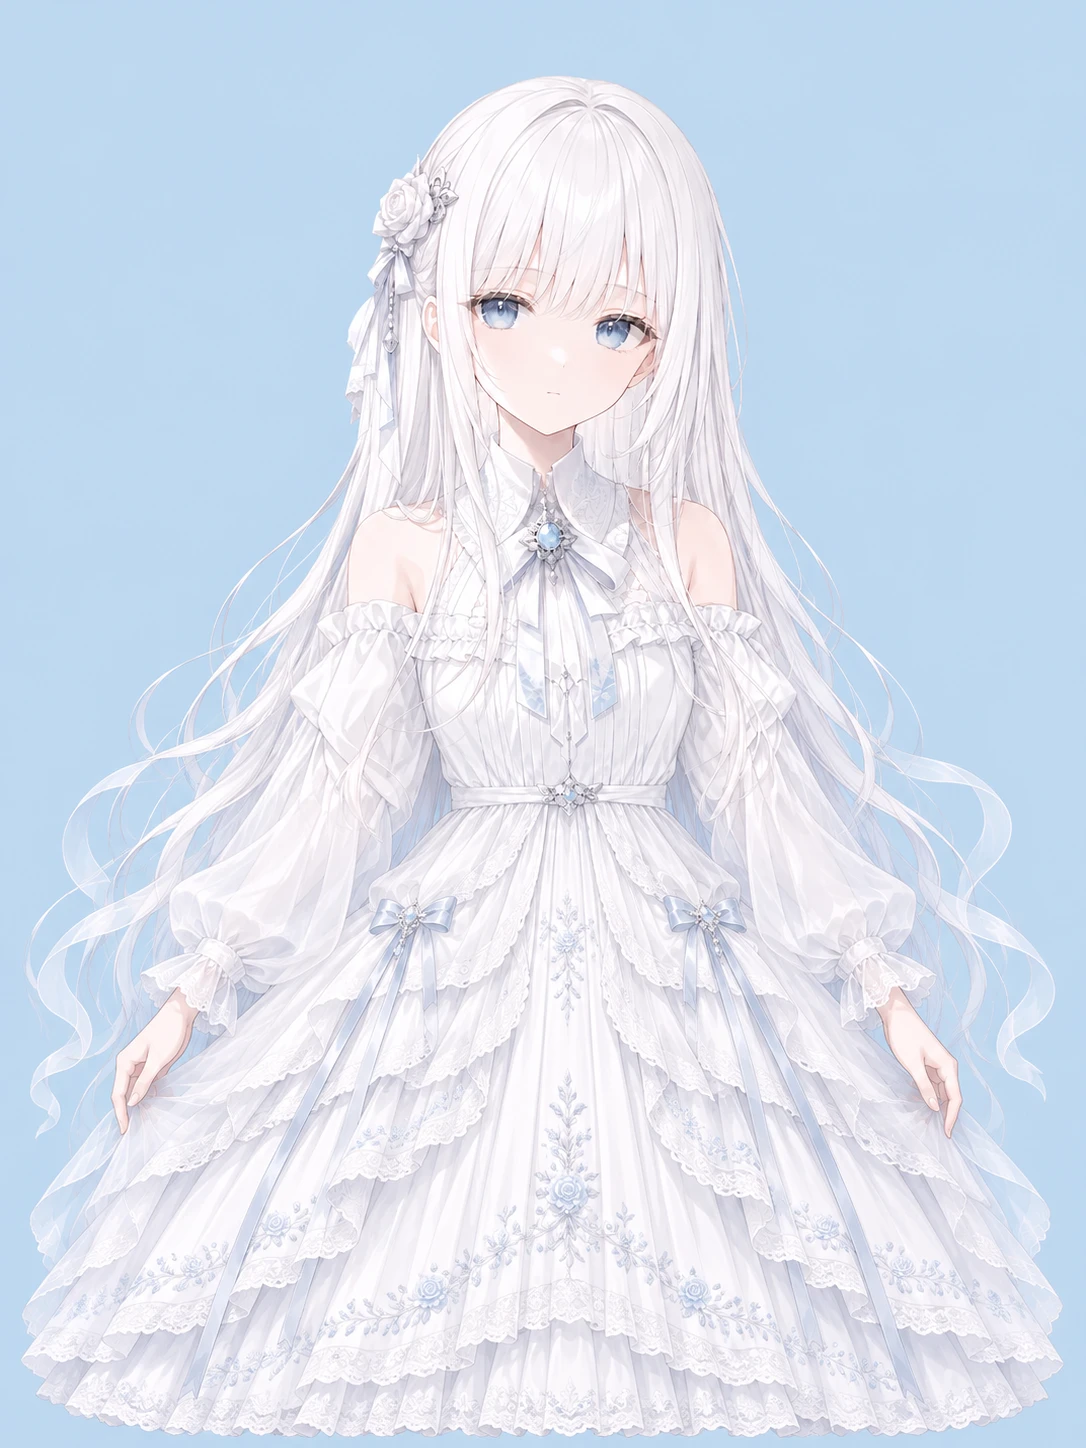
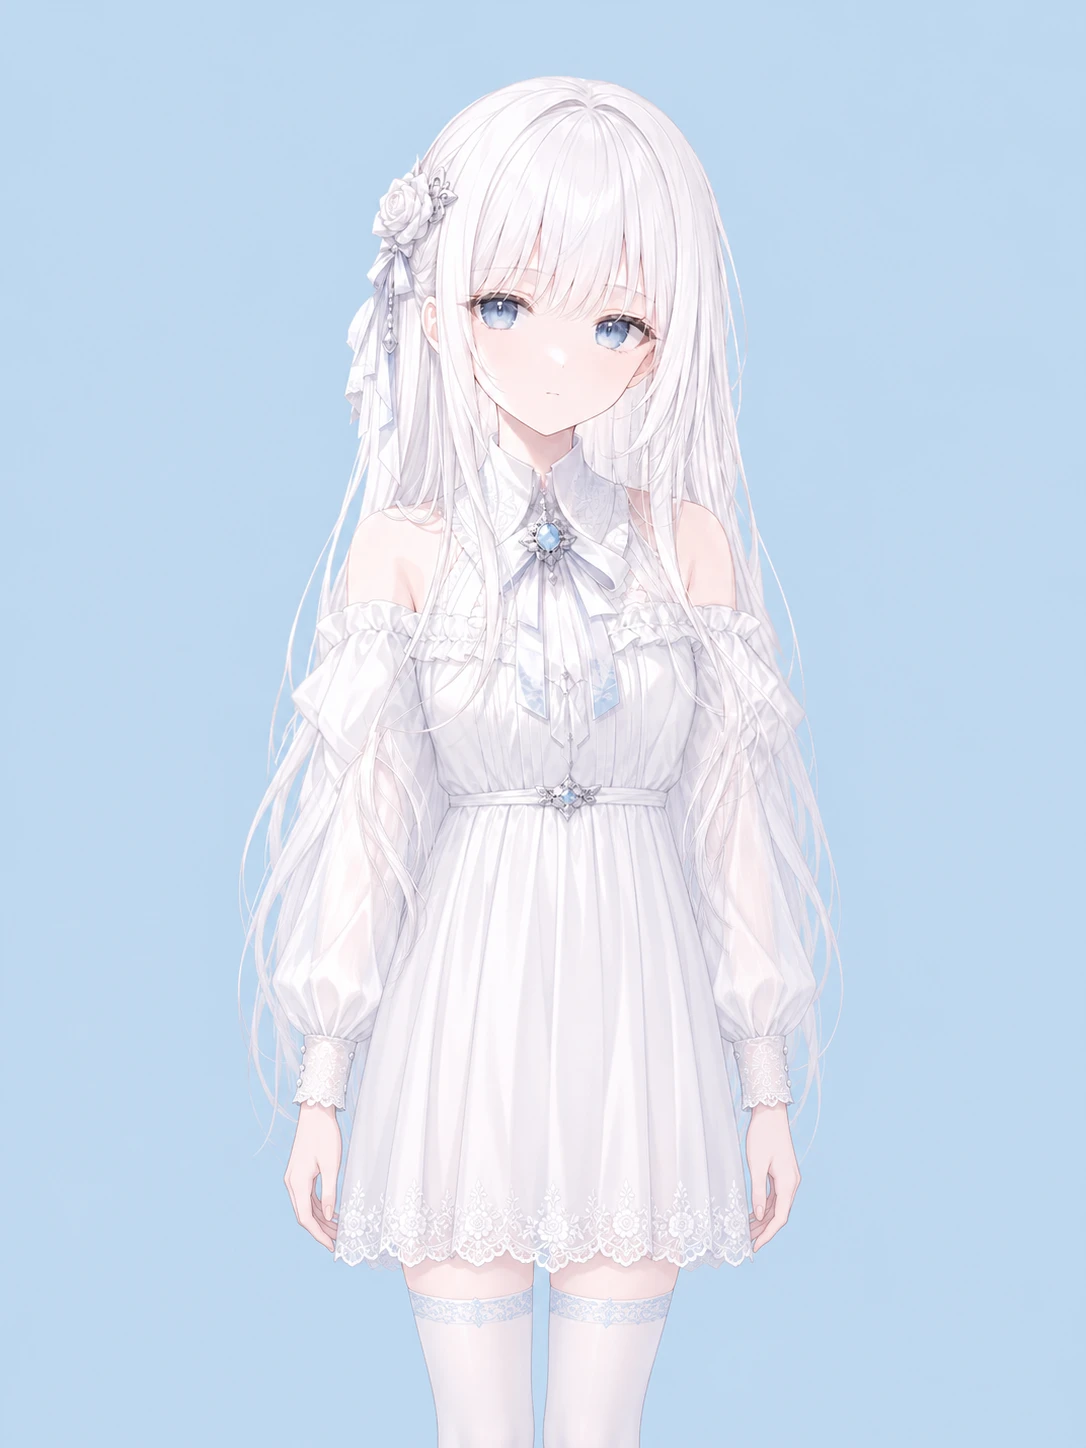
chore(preview): publish Batch 1A v3 portrait picker (5 distinct outfits per sister, zero side clipping)

diff --git a/portrait-picker/index.html b/portrait-picker/index.html
@@ -3,7 +3,7 @@
 <head>
 <meta charset="UTF-8">
 <meta name="viewport" content="width=device-width, initial-scale=1.0">
-<title>Batch 1A v2 · 三姐妹少女期（原图结构锁定补画 · 放宽体型）</title>
+<title>Batch 1A v3 · 三姐妹少女期（每角 5 款迥异下装设计 · 原图结构锁定）</title>
 <style>
 /* ==========================================================================
    《转生千金》立绘 5 选 1 交互审图工坊 · 棱镜冰晶雪瓷视觉体系
@@ -2030,7 +2030,7 @@ body.view-large .btn-zoom .zoom-txt {
 
 <div class="toast" id="toast" role="status" aria-live="polite"></div>
 
-<script id="showcase-data" type="application/json">{"batch_id":"batch_1a_v2","batch_label":"Batch 1A v2","title":"Batch 1A v2 · 三姐妹少女期（原图结构锁定补画 · 放宽体型）","subtitle":"原立绘上半身与双臂走势 100% 锁定自然外扩 · 严禁腹前搭手与捏细身形 · 放宽左右边距保华丽贵族蓬裙","characters":[{"id":"sylvia_teenage_normal","name":"希尔维亚 · 少女期","role_tag":"核心女主 · 4 阶段之一","sample_line":"既然重活一世，这一生总该按自己的步调，悠闲地过日子才对。","original":{"src":"img/sylvia_teenage_normal/original.webp","defect":"原图仅到束腰上半截，且左右披发与白袖均被硬裁（左65px/右42px）","metrics":{"width":1086,"height":1448,"aspect":"3:4","margin_l":0.0,"margin_r":0.0,"margin_t":2.3,"margin_b":0.0,"bg_std":0.0,"bg_hex":"transparent","is_transparent":true}},"candidates":[{"index":1,"label":"#01","src":"img/sylvia_teenage_normal/cand_01.webp","tag":"自然垂手·金绣长裙","note":"","metrics":{"width":1086,"height":1448,"aspect":"3:4","margin_l":4.1,"margin_r":4.2,"margin_t":5.2,"margin_b":0.3,"bg_std":0.6,"bg_hex":"#C0D8EF","is_transparent":false}},{"index":2,"label":"#02","src":"img/sylvia_teenage_normal/cand_02.webp","tag":"轻提裙侧·蓝白层褶","note":"","metrics":{"width":1086,"height":1448,"aspect":"3:4","margin_l":0.0,"margin_r":0.0,"margin_t":5.1,"margin_b":0.0,"bg_std":0.6,"bg_hex":"#BCD7F0","is_transparent":false}},{"index":3,"label":"#03","src":"img/sylvia_teenage_normal/cand_03.webp","tag":"指尖轻拂·典雅长摆","note":"","metrics":{"width":1086,"height":1448,"aspect":"3:4","margin_l":0.0,"margin_r":0.0,"margin_t":5.2,"margin_b":0.0,"bg_std":0.6,"bg_hex":"#BDD6EE","is_transparent":false}},{"index":4,"label":"#04","src":"img/sylvia_teenage_normal/cand_04.webp","tag":"轻抚裙胯·饱满蓬裙","note":"","metrics":{"width":1086,"height":1448,"aspect":"3:4","margin_l":1.2,"margin_r":1.5,"margin_t":5.2,"margin_b":0.1,"bg_std":0.6,"bg_hex":"#BDD6EE","is_transparent":false}},{"index":5,"label":"#05","src":"img/sylvia_teenage_normal/cand_05.webp","tag":"微风垂袖·银发轻扬","note":"","metrics":{"width":1086,"height":1448,"aspect":"3:4","margin_l":0.6,"margin_r":0.6,"margin_t":5.2,"margin_b":0.0,"bg_std":0.6,"bg_hex":"#BFD7EE","is_transparent":false}}]},{"id":"alice_teenage_normal","name":"爱丽丝 · 少女期","role_tag":"公爵次女 · 3 阶段之一","sample_line":"姐姐，今天的风有些凉，披肩记得系紧些再出门。","original":{"src":"img/alice_teenage_normal/original.webp","defect":"原图仅胸上/高腰裁切，白纱蓬袖与披发紧逼左右边界","metrics":{"width":1086,"height":1448,"aspect":"3:4","margin_l":1.5,"margin_r":2.4,"margin_t":4.3,"margin_b":0.0,"bg_std":0.0,"bg_hex":"transparent","is_transparent":true}},"candidates":[{"index":1,"label":"#01","src":"img/alice_teenage_normal/cand_01.webp","tag":"双袖自然垂落·纯白蕾丝","note":"","metrics":{"width":1086,"height":1448,"aspect":"3:4","margin_l":0.0,"margin_r":0.0,"margin_t":5.2,"margin_b":0.0,"bg_std":0.6,"bg_hex":"#C0D8F0","is_transparent":false}},{"index":2,"label":"#02","src":"img/alice_teenage_normal/cand_02.webp","tag":"指尖轻拢裙侧·冰蓝丝带","note":"","metrics":{"width":1086,"height":1448,"aspect":"3:4","margin_l":1.1,"margin_r":1.1,"margin_t":5.2,"margin_b":0.0,"bg_std":0.6,"bg_hex":"#C1D8F0","is_transparent":false}},{"index":3,"label":"#03","src":"img/alice_teenage_normal/cand_03.webp","tag":"舒展垂手·多层雪纱裙","note":"","metrics":{"width":1086,"height":1448,"aspect":"3:4","margin_l":0.8,"margin_r":0.8,"margin_t":5.2,"margin_b":0.1,"bg_std":0.6,"bg_hex":"#C0D8EF","is_transparent":false}},{"index":4,"label":"#04","src":"img/alice_teenage_normal/cand_04.webp","tag":"轻提外纱·清冷典雅","note":"","metrics":{"width":1086,"height":1448,"aspect":"3:4","margin_l":0.1,"margin_r":0.2,"margin_t":5.2,"margin_b":0.0,"bg_std":0.6,"bg_hex":"#BED8F0","is_transparent":false}},{"index":5,"label":"#05","src":"img/alice_teenage_normal/cand_05.webp","tag":"雪发轻扬·冰晶蕾丝摆","note":"","metrics":{"width":1086,"height":1448,"aspect":"3:4","margin_l":2.0,"margin_r":2.1,"margin_t":5.2,"margin_b":0.7,"bg_std":0.6,"bg_hex":"#BED8F0","is_transparent":false}}]},{"id":"beatrice_teenage_normal","name":"贝阿特丽丝 · 少女期","role_tag":"公爵长女 · 3 阶段之一","sample_line":"哈哈，既然是学院比试，可不许对我手下留情哦！","original":{"src":"img/beatrice_teenage_normal/original.webp","defect":"原图为 1:1 方画幅，顶边仅 4px 险切高马尾，腰下与双袖斜切","metrics":{"width":1254,"height":1254,"aspect":"1:1","margin_l":12.4,"margin_r":5.7,"margin_t":0.4,"margin_b":0.0,"bg_std":0.0,"bg_hex":"transparent","is_transparent":true}},"candidates":[{"index":1,"label":"#01","src":"img/beatrice_teenage_normal/cand_01.webp","tag":"自然外展·红金蓬裙","note":"","metrics":{"width":1086,"height":1448,"aspect":"3:4","margin_l":0.0,"margin_r":0.7,"margin_t":5.1,"margin_b":0.0,"bg_std":0.6,"bg_hex":"#DFD1BD","is_transparent":false}},{"index":2,"label":"#02","src":"img/beatrice_teenage_normal/cand_02.webp","tag":"轻提裙侧·明朗大小姐","note":"","metrics":{"width":1086,"height":1448,"aspect":"3:4","margin_l":0.5,"margin_r":0.0,"margin_t":5.1,"margin_b":0.0,"bg_std":0.6,"bg_hex":"#E2D4C0","is_transparent":false}},{"index":3,"label":"#03","src":"img/beatrice_teenage_normal/cand_03.webp","tag":"轻扶裙胯·华丽红裙","note":"","metrics":{"width":1086,"height":1448,"aspect":"3:4","margin_l":1.0,"margin_r":0.1,"margin_t":5.1,"margin_b":0.0,"bg_std":0.6,"bg_hex":"#E0D3BE","is_transparent":false}},{"index":4,"label":"#04","src":"img/beatrice_teenage_normal/cand_04.webp","tag":"舒展袖摆·白蕾丝层裙","note":"","metrics":{"width":1086,"height":1448,"aspect":"3:4","margin_l":1.1,"margin_r":1.2,"margin_t":5.2,"margin_b":0.2,"bg_std":0.6,"bg_hex":"#DFD2BE","is_transparent":false}},{"index":5,"label":"#05","src":"img/beatrice_teenage_normal/cand_05.webp","tag":"爽朗姿态·跃动金马尾","note":"","metrics":{"width":1086,"height":1448,"aspect":"3:4","margin_l":1.3,"margin_r":1.7,"margin_t":5.1,"margin_b":0.9,"bg_std":0.6,"bg_hex":"#E2D4C0","is_transparent":false}}]}]}</script>
+<script id="showcase-data" type="application/json">{"batch_id":"batch_1a_v3","batch_label":"Batch 1A v3","title":"Batch 1A v3 · 三姐妹少女期（每角 5 款迥异下装设计 · 原图结构锁定）","subtitle":"原立绘上半身与双臂走势 100% 锁定 · 每角 5 种截然不同下装与气质（直筒/百褶长袜/燕尾/斜裁轻纱/修身裤装）· 严控左右纯底留白零切边","characters":[{"id":"sylvia_teenage_normal","name":"希尔维亚 · 少女期","role_tag":"核心女主 · 4 阶段之一","sample_line":"既然重活一世，这一生总该按自己的步调，悠闲地过日子才对。","original":{"src":"img/sylvia_teenage_normal/original.webp","defect":"原图仅到束腰上半截，且左右披发与白袖均被硬裁（左65px/右42px）","metrics":{"width":1086,"height":1448,"aspect":"3:4","margin_l":0.0,"margin_r":0.0,"margin_t":2.3,"margin_b":0.0,"bg_std":0.0,"bg_hex":"transparent","is_transparent":true}},"candidates":[{"index":1,"label":"#01","src":"img/sylvia_teenage_normal/cand_01.webp","tag":"垂坠直筒长裙","note":"深皇家蓝丝绒直筒细褶垂坠长裙，淡金竖纹滚边，修长高挑清冷","metrics":{"width":1086,"height":1448,"aspect":"3:4","margin_l":17.7,"margin_r":20.1,"margin_t":5.1,"margin_b":0.0,"bg_std":0.6,"bg_hex":"#C1D8EF","is_transparent":false}},{"index":2,"label":"#02","src":"img/sylvia_teenage_normal/cand_02.webp","tag":"学院百褶+长袜","note":"阿斯拉魔法学院风深蓝金边齐膝百褶裙 + 深藏蓝过膝长袜，干练轻便","metrics":{"width":1086,"height":1448,"aspect":"3:4","margin_l":19.2,"margin_r":19.6,"margin_t":5.2,"margin_b":0.0,"bg_std":0.6,"bg_hex":"#BED7EF","is_transparent":false}},{"index":3,"label":"#03","src":"img/sylvia_teenage_normal/cand_03.webp","tag":"贵族燕尾+白褶裙","note":"深蓝金藤前短后长分叉燕尾下摆 + 贴身纯白细百褶内衬长裙，飒爽贵气","metrics":{"width":1086,"height":1448,"aspect":"3:4","margin_l":13.5,"margin_r":16.7,"margin_t":5.2,"margin_b":0.0,"bg_std":0.6,"bg_hex":"#C1D9EF","is_transparent":false}},{"index":4,"label":"#04","src":"img/sylvia_teenage_normal/cand_04.webp","tag":"不对称飘带轻纱","note":"斜裁不对称深蓝丝绸+柔垂雪纺双层长裙 + 腰链侧双缕金边飘带，灵动轻盈","metrics":{"width":1086,"height":1448,"aspect":"3:4","margin_l":15.5,"margin_r":18.5,"margin_t":5.2,"margin_b":0.0,"bg_std":0.6,"bg_hex":"#C1D8EF","is_transparent":false}},{"index":5,"label":"#05","src":"img/sylvia_teenage_normal/cand_05.webp","tag":"剑士修身长裤","note":"收腰开衩修长衣摆 + 深藏蓝贵族修身骑装/法袍长裤，清冷英气魔剑实战便装","metrics":{"width":1086,"height":1448,"aspect":"3:4","margin_l":19.4,"margin_r":20.2,"margin_t":5.1,"margin_b":0.0,"bg_std":0.6,"bg_hex":"#BFD8EF","is_transparent":false}}]},{"id":"alice_teenage_normal","name":"爱丽丝 · 少女期","role_tag":"公爵次女 · 3 阶段之一","sample_line":"姐姐，今天的风有些凉，披肩记得系紧些再出门。","original":{"src":"img/alice_teenage_normal/original.webp","defect":"原图仅胸上/高腰裁切，白纱蓬袖与披发紧逼左右边界","metrics":{"width":1086,"height":1448,"aspect":"3:4","margin_l":1.5,"margin_r":2.4,"margin_t":4.3,"margin_b":0.0,"bg_std":0.0,"bg_hex":"transparent","is_transparent":true}},"candidates":[{"index":1,"label":"#01","src":"img/alice_teenage_normal/cand_01.webp","tag":"直垂雪纺仙女裙","note":"纯白丝滑直身垂坠雪纺长裙，如流水贴身顺直垂落，空灵仙气","metrics":{"width":1086,"height":1448,"aspect":"3:4","margin_l":23.0,"margin_r":22.8,"margin_t":5.2,"margin_b":0.0,"bg_std":0.6,"bg_hex":"#BFD8F0","is_transparent":false}},{"index":2,"label":"#02","src":"img/alice_teenage_normal/cand_02.webp","tag":"日常微A白布裙","note":"无撑架自然柔和微A字日常纯白长裙 + 淡冰蓝蕾丝花边，温婉舒展不臃肿","metrics":{"width":1086,"height":1448,"aspect":"3:4","margin_l":17.7,"margin_r":17.8,"margin_t":5.2,"margin_b":0.0,"bg_std":0.6,"bg_hex":"#BFD7EF","is_transparent":false}},{"index":3,"label":"#03","src":"img/alice_teenage_normal/cand_03.webp","tag":"高腰百褶+冰蓝飘带","note":"纯白竖向细密百褶直裙 + 银扣正中双条冰蓝雪花暗纹长丝带，清雅利落","metrics":{"width":1086,"height":1448,"aspect":"3:4","margin_l":21.7,"margin_r":21.3,"margin_t":5.2,"margin_b":0.0,"bg_std":0.6,"bg_hex":"#C0D8F0","is_transparent":false}},{"index":4,"label":"#04","src":"img/alice_teenage_normal/cand_04.webp","tag":"斜裁轻纱荷叶裙","note":"斜裁不对称双层雪纺裙（外层柔白轻纱荷叶边 + 内层淡冰蓝暗纹垂衬裙），纤巧多层次","metrics":{"width":1086,"height":1448,"aspect":"3:4","margin_l":21.2,"margin_r":21.2,"margin_t":5.2,"margin_b":0.0,"bg_std":0.6,"bg_hex":"#C0D7EF","is_transparent":false}},{"index":5,"label":"#05","src":"img/alice_teenage_normal/cand_05.webp","tag":"齐膝白裙+白丝袜","note":"轻盈日常齐膝纯白蕾丝连衣裙 + 纯白/淡冰蓝细纹过膝长袜，清纯温婉","metrics":{"width":1086,"height":1448,"aspect":"3:4","margin_l":21.9,"margin_r":22.4,"margin_t":5.2,"margin_b":0.0,"bg_std":0.6,"bg_hex":"#BFD8F0","is_transparent":false}}]},{"id":"beatrice_teenage_normal","name":"贝阿特丽丝 · 少女期","role_tag":"公爵长女 · 3 阶段之一","sample_line":"哈哈，既然是学院比试，可不许对我手下留情哦！","original":{"src":"img/beatrice_teenage_normal/original.webp","defect":"原图为 1:1 方画幅，顶边仅 4px 险切高马尾，腰下与双袖斜切","metrics":{"width":1254,"height":1254,"aspect":"1:1","margin_l":12.4,"margin_r":5.7,"margin_t":0.4,"margin_b":0.0,"bg_std":0.0,"bg_hex":"transparent","is_transparent":true}},"candidates":[{"index":1,"label":"#01","src":"img/beatrice_teenage_normal/cand_01.webp","tag":"骑士燕尾+修身裤","note":"绯红金绣骑士分叉长燕尾下摆 + 利落纯白/深酒红剑士修身长裤，飒爽大姐剑士风","metrics":{"width":1086,"height":1448,"aspect":"3:4","margin_l":15.5,"margin_r":8.4,"margin_t":5.2,"margin_b":0.0,"bg_std":0.6,"bg_hex":"#E2D3BF","is_transparent":false}},{"index":2,"label":"#02","src":"img/beatrice_teenage_normal/cand_02.webp","tag":"学院绯红百褶+黑袜","note":"充满活力的绯红金边学院风百褶中短裙 + 深色过膝长袜，明朗朝气方便挥剑","metrics":{"width":1086,"height":1448,"aspect":"3:4","margin_l":14.3,"margin_r":14.2,"margin_t":5.1,"margin_b":0.0,"bg_std":0.6,"bg_hex":"#E0D4C0","is_transparent":false}},{"index":3,"label":"#03","src":"img/beatrice_teenage_normal/cand_03.webp","tag":"红丝绒直摆礼裙","note":"修长垂坠绯红丝绒直身长裙 + 正中纯白蕾丝竖条内衬与纵向金绣，高挑华贵绝不臃肿","metrics":{"width":1086,"height":1448,"aspect":"3:4","margin_l":20.4,"margin_r":15.0,"margin_t":5.2,"margin_b":0.0,"bg_std":0.6,"bg_hex":"#E0D3BF","is_transparent":false}},{"index":4,"label":"#04","src":"img/beatrice_teenage_normal/cand_04.webp","tag":"前短后长轻战裙","note":"侧开叉前短后长绯红金边轻战裙（外层红色燕尾披摆 + 内层白蕾丝短褶裙），动感层次十足","metrics":{"width":1086,"height":1448,"aspect":"3:4","margin_l":15.6,"margin_r":13.4,"margin_t":5.0,"margin_b":0.0,"bg_std":0.6,"bg_hex":"#E0D3BF","is_transparent":false}},{"index":5,"label":"#05","src":"img/beatrice_teenage_normal/cand_05.webp","tag":"经典微A红白礼裙","note":"无钢圈柔和微A字绯红白蕾丝日常贵族裙，舒展优雅且稳收画框内（唯一经典礼裙对照款）","metrics":{"width":1086,"height":1448,"aspect":"3:4","margin_l":7.0,"margin_r":7.9,"margin_t":5.2,"margin_b":0.0,"bg_std":0.6,"bg_hex":"#E0D3C0","is_transparent":false}}]}]}</script>
 <script>
 (function () {
   "use strict";
